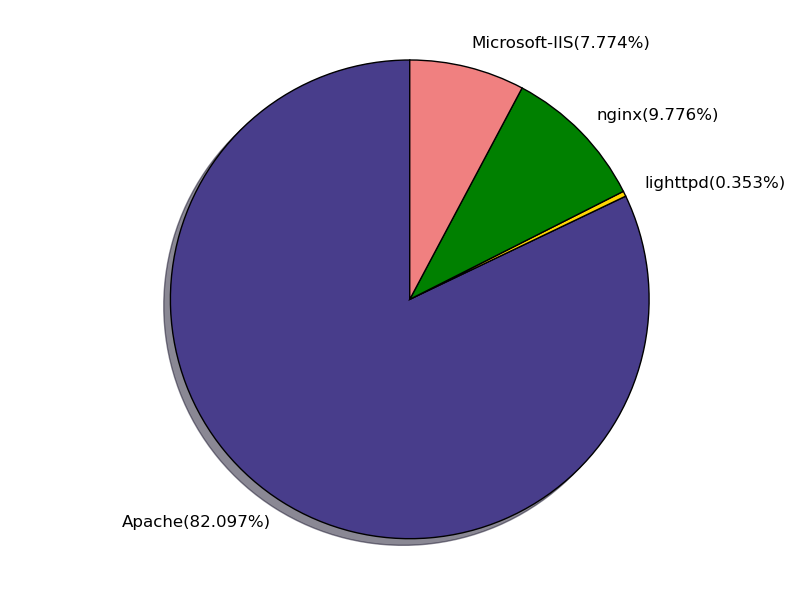
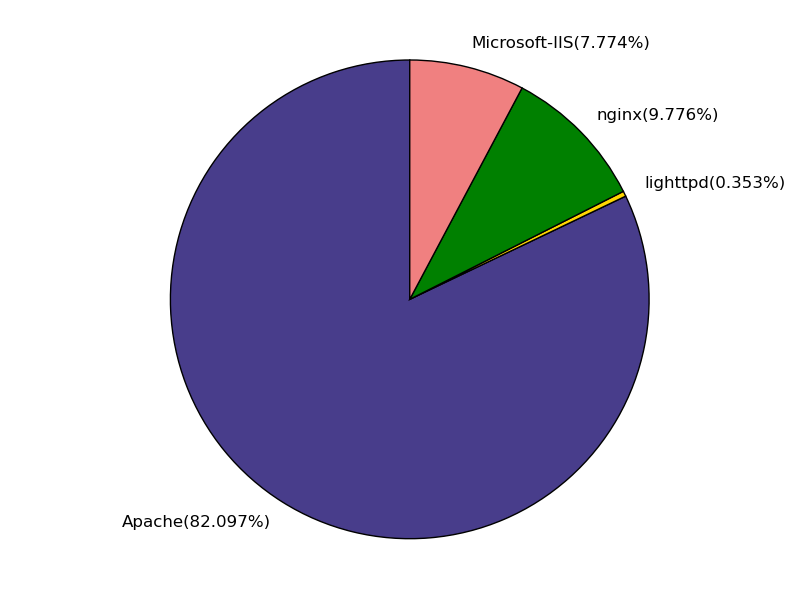
Add test and make some fixes

diff --git a/week7/1-Scan-Bg-Web/histogram_test.py b/week7/1-Scan-Bg-Web/histogram_test.py
@@ -1,0 +1,34 @@
+import unittest
+from histogram import Histogram
+
+
+class HistogramTest(unittest.TestCase):
+
+    def setUp(self):
+        self.server_histogram = Histogram()
+
+    def test_create_new_instance(self):
+        self.assertTrue(isinstance(self.server_histogram, Histogram))
+
+    def test_valid_members(self):
+        self.assertEqual(self.server_histogram.dictionary, {})
+
+    def test_add_existing_element(self):
+        self.server_histogram.dictionary["Apache"] = 99
+        self.server_histogram.add("Apache")
+        self.assertEqual(self.server_histogram.dictionary["Apache"], 100)
+
+    def test_add_non_existing_element(self):
+        for i in range(10):
+            self.server_histogram.add("Apache")
+        self.assertEqual(self.server_histogram.dictionary["Apache"], 10)
+
+    def test_count_non_existing_element(self):
+        self.assertEqual(self.server_histogram.count("nginx"), None)
+
+    def test_count_existing_element(self):
+        self.server_histogram.dictionary["nginx"] = 200
+        self.assertEqual(self.server_histogram.count("nginx"), 200)
+
+if __name__ == '__main__':
+    unittest.main()

diff --git a/week7/1-Scan-Bg-Web/chart.py b/week7/1-Scan-Bg-Web/chart.py
@@ -17,9 +17,6 @@ class Chart:
 
         # Make Pie-Chart
         colors = ['darkslateblue', 'gold', 'green', 'lightcoral']
-        explode = (0, 0, 0, 0)
-
-        pyplot.pie(sizes, explode=explode, labels=keys, colors=colors,
-                   shadow=True, startangle=90)
+        pyplot.pie(sizes, labels=keys, colors=colors, startangle=90)
         pyplot.axis('equal')
         pyplot.savefig("pie-chart.png")

diff --git a/week7/1-Scan-Bg-Web/crawler.py b/week7/1-Scan-Bg-Web/crawler.py
@@ -46,6 +46,6 @@ class Crawler:
         with open(filename, "r") as text_file:
             content = text_file.read().split("\n")
 
-        print("Loading completed successfully")
+        print("Loading completed successfully!")
 
         return content
